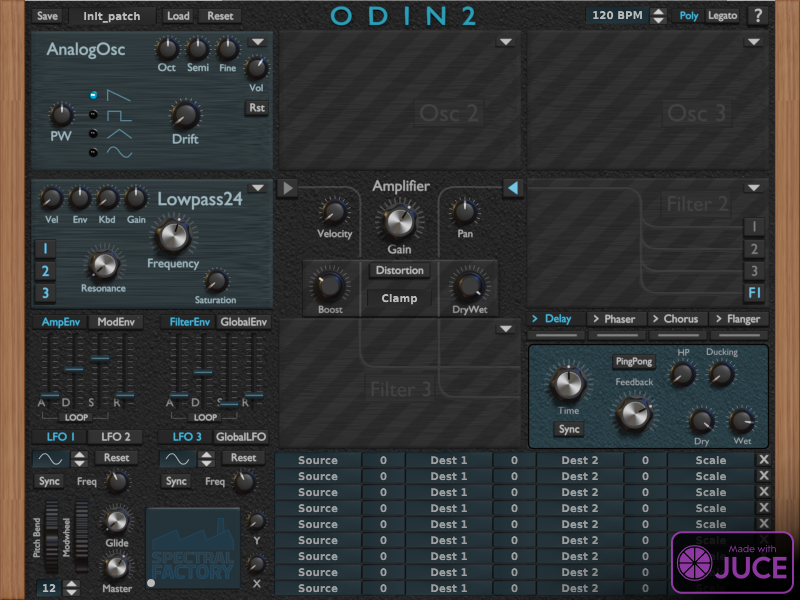
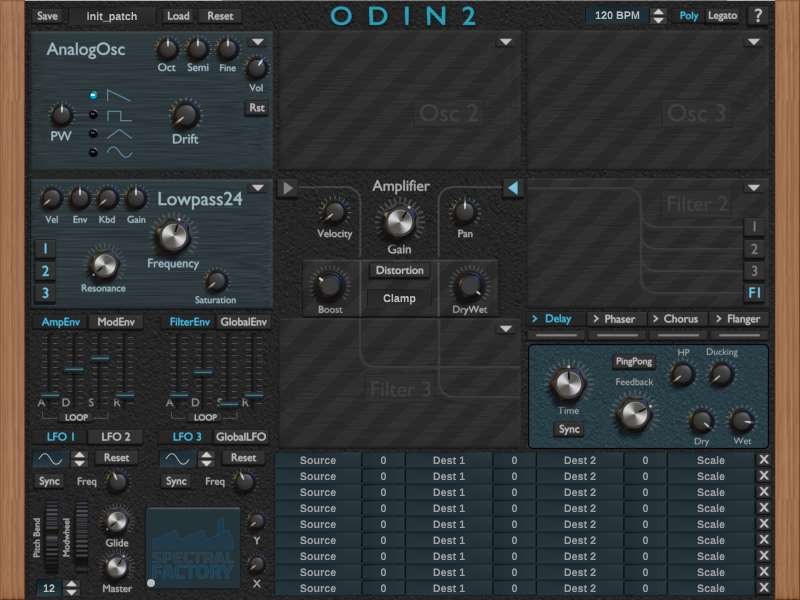
changed WT knob

diff --git a/Source/OscComponent.cpp b/Source/OscComponent.cpp
@@ -472,9 +472,9 @@ OscComponent::OscComponent(OdinAudioProcessor &p_processor,
 
 	addChildComponent(m_detune);
 
-	m_pos_mod.setStrip(ImageCache::getFromMemory(BinaryData::metal_knob_mid_png, BinaryData::metal_knob_mid_pngSize),
+	m_pos_mod.setStrip(ImageCache::getFromMemory(BinaryData::black_knob_mid_png, BinaryData::black_knob_mid_pngSize),
 	                   256);
-	m_pos_mod.setBounds(POS_ENV_POS_X, POS_ENV_POS_Y, METAL_KNOB_MID_SIZE_X, METAL_KNOB_MID_SIZE_Y);
+	m_pos_mod.setBounds(POS_ENV_POS_X, POS_ENV_POS_Y, BLACK_KNOB_MID_SIZE_X, BLACK_KNOB_MID_SIZE_Y);
 	m_pos_mod.setSliderStyle(Slider::RotaryVerticalDrag);
 	m_pos_mod.setTextBoxStyle(Slider::NoTextBox, false, 0, 0);
 	m_pos_mod.setKnobTooltip("Controls the depth of modulation from the selected modsource to the osc position");

diff --git a/Source/audio/Oscillators/WavetableOsc1D.cpp b/Source/audio/Oscillators/WavetableOsc1D.cpp
@@ -59,7 +59,6 @@ int WavetableOsc1D::getTableIndex() {
 			//we save the inverse midfreq of last found interval to use a few lines up
 			m_one_over_last_mid_freq = m_table_one_over_mid_freq_values[table];
 			m_last_table_index       = table;
-			DBG("GETTABLEINDEXPENSIVE()!!!");
 			return table;
 		}
 		seed_freq *= 1.189207f; // minor third up

diff --git a/Source/OscComponent.h b/Source/OscComponent.h
@@ -104,8 +104,8 @@
 #define POS_MODULATION_Y 101
 #define POSITION_POS_X 122
 #define POSITION_POS_Y 49
-#define POS_ENV_POS_X 167
-#define POS_ENV_POS_Y 95
+#define POS_ENV_POS_X 173
+#define POS_ENV_POS_Y 98
 #define MULTI_WAVE_X 80
 #define MULTI_WAVE_Y 103
 
